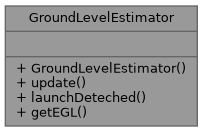
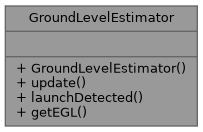
Deploying to gh-pages from @ CURocketEngineering/Avionics@33a848b708a5ed7cc51dd8aad7a456dd8ab78559 🚀

Changed region(s): [[0.532, 0.6667, 0.7389, 0.7879]]

diff --git a/GroundLevelEstimator_8cpp_source.html b/GroundLevelEstimator_8cpp_source.html
@@ -97,41 +97,45 @@ $(document).ready(function(){initNavTree('GroundLevelEstimator_8cpp_source.html'
 <div class="line"><a id="l00002" name="l00002"></a><span class="lineno">    2</span> </div>
 <div class="line"><a id="l00003" name="l00003"></a><span class="lineno">    3</span><span class="comment">// Constructor</span></div>
 <div class="line"><a id="l00004" name="l00004"></a><span class="lineno"><a class="line" href="classGroundLevelEstimator.html#a49c13cdd303b837f048ccd9a5b218129">    4</a></span><a class="code hl_function" href="classGroundLevelEstimator.html#a49c13cdd303b837f048ccd9a5b218129">GroundLevelEstimator::GroundLevelEstimator</a>()</div>
-<div class="line"><a id="l00005" name="l00005"></a><span class="lineno">    5</span>: launched(false), estimatedGroundLevel_m(0.0F), sampleCount(0)</div>
+<div class="line"><a id="l00005" name="l00005"></a><span class="lineno">    5</span>: launched(false), estimatedGroundLevel_m(0.0F), sampleCount(0), alpha(0.1F)</div>
 <div class="line"><a id="l00006" name="l00006"></a><span class="lineno">    6</span>{}</div>
 <div class="line"><a id="l00007" name="l00007"></a><span class="lineno">    7</span> </div>
 <div class="line"><a id="l00008" name="l00008"></a><span class="lineno">    8</span><span class="comment">// Update the ground level estimate or convert ASL to AGL - Altitude ABOVE ground level</span></div>
 <div class="line"><a id="l00009" name="l00009"></a><span class="lineno"><a class="line" href="classGroundLevelEstimator.html#ab30984cfe9c9e86b0d6d1df3911ed593">    9</a></span><span class="keywordtype">float</span> <a class="code hl_function" href="classGroundLevelEstimator.html#ab30984cfe9c9e86b0d6d1df3911ed593">GroundLevelEstimator::update</a>(<span class="keywordtype">float</span> currentASL_m) {</div>
-<div class="line"><a id="l00010" name="l00010"></a><span class="lineno">   10</span>    </div>
-<div class="line"><a id="l00011" name="l00011"></a><span class="lineno">   11</span>    <span class="comment">// Before launch: accumulate samples to estimate ground level</span></div>
-<div class="line"><a id="l00012" name="l00012"></a><span class="lineno">   12</span>    <span class="keywordflow">if</span> (!launched) {</div>
-<div class="line"><a id="l00013" name="l00013"></a><span class="lineno">   13</span>        <span class="comment">// Running average of ground level samples</span></div>
-<div class="line"><a id="l00014" name="l00014"></a><span class="lineno">   14</span>        estimatedGroundLevel_m = ((estimatedGroundLevel_m * sampleCount) + currentASL_m) / (sampleCount + 1);</div>
-<div class="line"><a id="l00015" name="l00015"></a><span class="lineno">   15</span>        sampleCount++;</div>
-<div class="line"><a id="l00016" name="l00016"></a><span class="lineno">   16</span>        </div>
-<div class="line"><a id="l00017" name="l00017"></a><span class="lineno">   17</span>        <span class="comment">// Still on ground, so AGL is 0</span></div>
-<div class="line"><a id="l00018" name="l00018"></a><span class="lineno">   18</span>        <span class="keywordflow">return</span> 0.0F;</div>
-<div class="line"><a id="l00019" name="l00019"></a><span class="lineno">   19</span>    }</div>
-<div class="line"><a id="l00020" name="l00020"></a><span class="lineno">   20</span>    </div>
-<div class="line"><a id="l00021" name="l00021"></a><span class="lineno">   21</span>    <span class="comment">// After launch: convert ASL to AGL</span></div>
-<div class="line"><a id="l00022" name="l00022"></a><span class="lineno">   22</span>    <span class="keywordflow">return</span> currentASL_m - estimatedGroundLevel_m;</div>
-<div class="line"><a id="l00023" name="l00023"></a><span class="lineno">   23</span>}</div>
-<div class="line"><a id="l00024" name="l00024"></a><span class="lineno">   24</span> </div>
-<div class="line"><a id="l00025" name="l00025"></a><span class="lineno">   25</span><span class="comment">// Signal that launch has been detected</span></div>
-<div class="line"><a id="l00026" name="l00026"></a><span class="lineno"><a class="line" href="classGroundLevelEstimator.html#acde5458a25b436c7ce3f8aadbeb88381">   26</a></span><span class="keywordtype">void</span> <a class="code hl_function" href="classGroundLevelEstimator.html#acde5458a25b436c7ce3f8aadbeb88381">GroundLevelEstimator::launchDeteched</a>() {</div>
-<div class="line"><a id="l00027" name="l00027"></a><span class="lineno">   27</span>    launched = <span class="keyword">true</span>;</div>
-<div class="line"><a id="l00028" name="l00028"></a><span class="lineno">   28</span>    <span class="comment">// Ground level estimate is now frozen at estimatedGroundLevel_m</span></div>
-<div class="line"><a id="l00029" name="l00029"></a><span class="lineno">   29</span>}</div>
-<div class="line"><a id="l00030" name="l00030"></a><span class="lineno">   30</span> </div>
-<div class="line"><a id="l00031" name="l00031"></a><span class="lineno">   31</span><span class="comment">// Get the estimated ground level</span></div>
-<div class="line"><a id="l00032" name="l00032"></a><span class="lineno"><a class="line" href="classGroundLevelEstimator.html#a7b289083cfec89b5af524ae7e6db3c17">   32</a></span><span class="keywordtype">float</span> <a class="code hl_function" href="classGroundLevelEstimator.html#a7b289083cfec89b5af524ae7e6db3c17">GroundLevelEstimator::getEGL</a>()<span class="keyword"> const </span>{</div>
-<div class="line"><a id="l00033" name="l00033"></a><span class="lineno">   33</span>    <span class="keywordflow">return</span> estimatedGroundLevel_m;</div>
-<div class="line"><a id="l00034" name="l00034"></a><span class="lineno">   34</span>}</div>
+<div class="line"><a id="l00010" name="l00010"></a><span class="lineno">   10</span>    <span class="comment">// Before launch: accumulate samples to estimate ground level</span></div>
+<div class="line"><a id="l00011" name="l00011"></a><span class="lineno">   11</span>    <span class="keywordflow">if</span> (!launched) {</div>
+<div class="line"><a id="l00012" name="l00012"></a><span class="lineno">   12</span>        <span class="keywordflow">if</span> (sampleCount == 0) {</div>
+<div class="line"><a id="l00013" name="l00013"></a><span class="lineno">   13</span>            <span class="comment">// Initialize with first sample</span></div>
+<div class="line"><a id="l00014" name="l00014"></a><span class="lineno">   14</span>            estimatedGroundLevel_m = currentASL_m;</div>
+<div class="line"><a id="l00015" name="l00015"></a><span class="lineno">   15</span>        } <span class="keywordflow">else</span> {</div>
+<div class="line"><a id="l00016" name="l00016"></a><span class="lineno">   16</span>            <span class="comment">// Exponential moving average: EMA = alpha * newValue + (1 - alpha) * oldEMA</span></div>
+<div class="line"><a id="l00017" name="l00017"></a><span class="lineno">   17</span>            estimatedGroundLevel_m = (alpha * currentASL_m) + ((1.0F - alpha) * estimatedGroundLevel_m);</div>
+<div class="line"><a id="l00018" name="l00018"></a><span class="lineno">   18</span>        }</div>
+<div class="line"><a id="l00019" name="l00019"></a><span class="lineno">   19</span>        sampleCount++;</div>
+<div class="line"><a id="l00020" name="l00020"></a><span class="lineno">   20</span>        </div>
+<div class="line"><a id="l00021" name="l00021"></a><span class="lineno">   21</span>        <span class="comment">// Still on ground, so AGL is 0</span></div>
+<div class="line"><a id="l00022" name="l00022"></a><span class="lineno">   22</span>        <span class="keywordflow">return</span> 0.0F;</div>
+<div class="line"><a id="l00023" name="l00023"></a><span class="lineno">   23</span>    }</div>
+<div class="line"><a id="l00024" name="l00024"></a><span class="lineno">   24</span>    </div>
+<div class="line"><a id="l00025" name="l00025"></a><span class="lineno">   25</span>    <span class="comment">// After launch: convert ASL to AGL</span></div>
+<div class="line"><a id="l00026" name="l00026"></a><span class="lineno">   26</span>    <span class="keywordflow">return</span> currentASL_m - estimatedGroundLevel_m;</div>
+<div class="line"><a id="l00027" name="l00027"></a><span class="lineno">   27</span>}</div>
+<div class="line"><a id="l00028" name="l00028"></a><span class="lineno">   28</span> </div>
+<div class="line"><a id="l00029" name="l00029"></a><span class="lineno">   29</span><span class="comment">// Signal that launch has been detected</span></div>
+<div class="line"><a id="l00030" name="l00030"></a><span class="lineno"><a class="line" href="classGroundLevelEstimator.html#a5993686a16bfa41f3e0fc793cf7b798c">   30</a></span><span class="keywordtype">void</span> <a class="code hl_function" href="classGroundLevelEstimator.html#a5993686a16bfa41f3e0fc793cf7b798c">GroundLevelEstimator::launchDetected</a>() {</div>
+<div class="line"><a id="l00031" name="l00031"></a><span class="lineno">   31</span>    launched = <span class="keyword">true</span>;</div>
+<div class="line"><a id="l00032" name="l00032"></a><span class="lineno">   32</span>    <span class="comment">// Ground level estimate is now frozen at estimatedGroundLevel_m</span></div>
+<div class="line"><a id="l00033" name="l00033"></a><span class="lineno">   33</span>}</div>
+<div class="line"><a id="l00034" name="l00034"></a><span class="lineno">   34</span> </div>
+<div class="line"><a id="l00035" name="l00035"></a><span class="lineno">   35</span><span class="comment">// Get the estimated ground level</span></div>
+<div class="line"><a id="l00036" name="l00036"></a><span class="lineno"><a class="line" href="classGroundLevelEstimator.html#a7b289083cfec89b5af524ae7e6db3c17">   36</a></span><span class="keywordtype">float</span> <a class="code hl_function" href="classGroundLevelEstimator.html#a7b289083cfec89b5af524ae7e6db3c17">GroundLevelEstimator::getEGL</a>()<span class="keyword"> const </span>{</div>
+<div class="line"><a id="l00037" name="l00037"></a><span class="lineno">   37</span>    <span class="keywordflow">return</span> estimatedGroundLevel_m;</div>
+<div class="line"><a id="l00038" name="l00038"></a><span class="lineno">   38</span>}</div>
 <div class="ttc" id="aGroundLevelEstimator_8h_html"><div class="ttname"><a href="GroundLevelEstimator_8h.html">GroundLevelEstimator.h</a></div></div>
 <div class="ttc" id="aclassGroundLevelEstimator_html_a49c13cdd303b837f048ccd9a5b218129"><div class="ttname"><a href="classGroundLevelEstimator.html#a49c13cdd303b837f048ccd9a5b218129">GroundLevelEstimator::GroundLevelEstimator</a></div><div class="ttdeci">GroundLevelEstimator()</div><div class="ttdoc">Constructs a GroundLevelEstimator.</div><div class="ttdef"><b>Definition:</b> <a href="GroundLevelEstimator_8cpp_source.html#l00004">GroundLevelEstimator.cpp:4</a></div></div>
-<div class="ttc" id="aclassGroundLevelEstimator_html_a7b289083cfec89b5af524ae7e6db3c17"><div class="ttname"><a href="classGroundLevelEstimator.html#a7b289083cfec89b5af524ae7e6db3c17">GroundLevelEstimator::getEGL</a></div><div class="ttdeci">float getEGL() const</div><div class="ttdoc">Gets the estimated ground level.</div><div class="ttdef"><b>Definition:</b> <a href="GroundLevelEstimator_8cpp_source.html#l00032">GroundLevelEstimator.cpp:32</a></div></div>
+<div class="ttc" id="aclassGroundLevelEstimator_html_a5993686a16bfa41f3e0fc793cf7b798c"><div class="ttname"><a href="classGroundLevelEstimator.html#a5993686a16bfa41f3e0fc793cf7b798c">GroundLevelEstimator::launchDetected</a></div><div class="ttdeci">void launchDetected()</div><div class="ttdoc">Signals that launch has been detected.</div><div class="ttdef"><b>Definition:</b> <a href="GroundLevelEstimator_8cpp_source.html#l00030">GroundLevelEstimator.cpp:30</a></div></div>
+<div class="ttc" id="aclassGroundLevelEstimator_html_a7b289083cfec89b5af524ae7e6db3c17"><div class="ttname"><a href="classGroundLevelEstimator.html#a7b289083cfec89b5af524ae7e6db3c17">GroundLevelEstimator::getEGL</a></div><div class="ttdeci">float getEGL() const</div><div class="ttdoc">Gets the estimated ground level.</div><div class="ttdef"><b>Definition:</b> <a href="GroundLevelEstimator_8cpp_source.html#l00036">GroundLevelEstimator.cpp:36</a></div></div>
 <div class="ttc" id="aclassGroundLevelEstimator_html_ab30984cfe9c9e86b0d6d1df3911ed593"><div class="ttname"><a href="classGroundLevelEstimator.html#ab30984cfe9c9e86b0d6d1df3911ed593">GroundLevelEstimator::update</a></div><div class="ttdeci">float update(float currentASL_m)</div><div class="ttdoc">Updates the ground level estimate or converts ASL to AGL.</div><div class="ttdef"><b>Definition:</b> <a href="GroundLevelEstimator_8cpp_source.html#l00009">GroundLevelEstimator.cpp:9</a></div></div>
-<div class="ttc" id="aclassGroundLevelEstimator_html_acde5458a25b436c7ce3f8aadbeb88381"><div class="ttname"><a href="classGroundLevelEstimator.html#acde5458a25b436c7ce3f8aadbeb88381">GroundLevelEstimator::launchDeteched</a></div><div class="ttdeci">void launchDeteched()</div><div class="ttdoc">Signals that launch has been detected.</div><div class="ttdef"><b>Definition:</b> <a href="GroundLevelEstimator_8cpp_source.html#l00026">GroundLevelEstimator.cpp:26</a></div></div>
 </div><!-- fragment --></div><!-- contents -->
 </div><!-- doc-content -->
 <!-- start footer part -->

diff --git a/search/all_9.js b/search/all_9.js
@@ -2,29 +2,28 @@ var searchData=
 [
   ['lastsenttimestamp_0',['lastSentTimestamp',['../structSendableSensorData.html#a70aed79ce7d278edd53b4bb838ed260f',1,'SendableSensorData']]],
   ['launch_5fstart_5faddress_5faddress_1',['LAUNCH_START_ADDRESS_ADDRESS',['../DataSaverSPI_8h.html#ac7f367c5e920ef5f2e942f5f8018e14c',1,'DataSaverSPI.h']]],
-  ['launchdeteched_2',['launchDeteched',['../classGroundLevelEstimator.html#acde5458a25b436c7ce3f8aadbeb88381',1,'GroundLevelEstimator']]],
-  ['launchdetected_3',['launchDetected',['../classIDataSaver.html#ab85dcc857f197475c14f9e50e9d34a97',1,'IDataSaver::launchDetected()'],['../classDataSaverSPI.html#aec6ba457bb1daac36ec1769001097631',1,'DataSaverSPI::launchDetected()']]],
-  ['launchdetector_4',['LaunchDetector',['../classLaunchDetector.html#a10e33e12876e820753cde55b85c6f6dc',1,'LaunchDetector::LaunchDetector()'],['../classLaunchDetector.html',1,'LaunchDetector']]],
-  ['launchdetector_2ecpp_5',['LaunchDetector.cpp',['../LaunchDetector_8cpp.html',1,'']]],
-  ['launchdetector_2eh_6',['LaunchDetector.h',['../LaunchDetector_8h.html',1,'']]],
-  ['launchdetectorstatus_7',['LaunchDetectorStatus',['../LaunchDetector_8h.html#a25d95163b8059ecb03e5f9f95f1f2080',1,'LaunchDetector.h']]],
-  ['lis2mdl_5frate_5f100_5fhz_8',['LIS2MDL_RATE_100_HZ',['../Serial__Sim_8h.html#a71ebe59eb085389213cce273f4f0e3fc',1,'Serial_Sim.h']]],
-  ['lis3mdl_5fcontinuousmode_9',['LIS3MDL_CONTINUOUSMODE',['../Serial__Sim_8h.html#ae763f82fd817483153c5268475554415',1,'Serial_Sim.h']]],
-  ['lis3mdl_5fdatarate_5f155_5fhz_10',['LIS3MDL_DATARATE_155_HZ',['../Serial__Sim_8h.html#a3b7a0befc8e6444cb3b11fc59efa180a',1,'Serial_Sim.h']]],
-  ['lis3mdl_5fmediummode_11',['LIS3MDL_MEDIUMMODE',['../Serial__Sim_8h.html#a5aa13eefdbbab4abb877f63f1d660149',1,'Serial_Sim.h']]],
-  ['lis3mdl_5frange_5f4_5fgauss_12',['LIS3MDL_RANGE_4_GAUSS',['../Serial__Sim_8h.html#aa65f4d3da98a51cb32780467f093f5bc',1,'Serial_Sim.h']]],
-  ['lp_5facl_5ftoo_5flow_13',['LP_ACL_TOO_LOW',['../LaunchDetector_8h.html#a25d95163b8059ecb03e5f9f95f1f2080a686daad6b191529dbdc7f02bf27f6572',1,'LaunchDetector.h']]],
-  ['lp_5falready_5flaunched_14',['LP_ALREADY_LAUNCHED',['../LaunchDetector_8h.html#a25d95163b8059ecb03e5f9f95f1f2080afbe67ada0f1b0a4edd304168f437a3ef',1,'LaunchDetector.h']]],
-  ['lp_5fdata_5ftoo_5ffast_15',['LP_DATA_TOO_FAST',['../LaunchDetector_8h.html#a25d95163b8059ecb03e5f9f95f1f2080a80bc20b88138de9371639ea71bf56585',1,'LaunchDetector.h']]],
-  ['lp_5fdefault_5ffail_16',['LP_DEFAULT_FAIL',['../LaunchDetector_8h.html#a25d95163b8059ecb03e5f9f95f1f2080a7affdc9e272a68c8732a39cff0422945',1,'LaunchDetector.h']]],
-  ['lp_5finitial_5fpopulation_17',['LP_INITIAL_POPULATION',['../LaunchDetector_8h.html#a25d95163b8059ecb03e5f9f95f1f2080a6b1e984da9587377f161469ab0303445',1,'LaunchDetector.h']]],
-  ['lp_5flaunch_5fdetected_18',['LP_LAUNCH_DETECTED',['../LaunchDetector_8h.html#a25d95163b8059ecb03e5f9f95f1f2080a4361e11eb8765b4c163edbfa0d4a6dff',1,'LaunchDetector.h']]],
-  ['lp_5fwindow_5fdata_5fstale_19',['LP_WINDOW_DATA_STALE',['../LaunchDetector_8h.html#a25d95163b8059ecb03e5f9f95f1f2080ac42669799e8c4b31090280073785da2d',1,'LaunchDetector.h']]],
-  ['lp_5fwindow_5fnot_5ffull_20',['LP_WINDOW_NOT_FULL',['../LaunchDetector_8h.html#a25d95163b8059ecb03e5f9f95f1f2080a622591f5c3e7f82e33db4f25e744f02a',1,'LaunchDetector.h']]],
-  ['lp_5fwindow_5ftime_5frange_5ftoo_5flarge_21',['LP_WINDOW_TIME_RANGE_TOO_LARGE',['../LaunchDetector_8h.html#a25d95163b8059ecb03e5f9f95f1f2080a91ab0d6da25f183f5bd31488cb9befbd',1,'LaunchDetector.h']]],
-  ['lp_5fwindow_5ftime_5frange_5ftoo_5fsmall_22',['LP_WINDOW_TIME_RANGE_TOO_SMALL',['../LaunchDetector_8h.html#a25d95163b8059ecb03e5f9f95f1f2080ad19671ce85a8d5c2b6c745ca1fa255b1',1,'LaunchDetector.h']]],
-  ['lp_5fyounger_5ftimestamp_23',['LP_YOUNGER_TIMESTAMP',['../LaunchDetector_8h.html#a25d95163b8059ecb03e5f9f95f1f2080aa063df1281826f139a90af3499487911',1,'LaunchDetector.h']]],
-  ['lsm6ds_5faccel_5frange_5f16_5fg_24',['LSM6DS_ACCEL_RANGE_16_G',['../Serial__Sim_8h.html#a050ff7cbc1883697a35f3361c51ddbe4',1,'Serial_Sim.h']]],
-  ['lsm6ds_5fgyro_5frange_5f2000_5fdps_25',['LSM6DS_GYRO_RANGE_2000_DPS',['../Serial__Sim_8h.html#a70adc0960c6c80b0f6fc81ea9aa99fa7',1,'Serial_Sim.h']]],
-  ['lsm6ds_5frate_5f104_5fhz_26',['LSM6DS_RATE_104_HZ',['../Serial__Sim_8h.html#ac0e79d8e724a3192144b706f098b7739',1,'Serial_Sim.h']]]
+  ['launchdetected_2',['launchDetected',['../classIDataSaver.html#ab85dcc857f197475c14f9e50e9d34a97',1,'IDataSaver::launchDetected()'],['../classDataSaverSPI.html#aec6ba457bb1daac36ec1769001097631',1,'DataSaverSPI::launchDetected()'],['../classGroundLevelEstimator.html#a5993686a16bfa41f3e0fc793cf7b798c',1,'GroundLevelEstimator::launchDetected()']]],
+  ['launchdetector_3',['LaunchDetector',['../classLaunchDetector.html#a10e33e12876e820753cde55b85c6f6dc',1,'LaunchDetector::LaunchDetector()'],['../classLaunchDetector.html',1,'LaunchDetector']]],
+  ['launchdetector_2ecpp_4',['LaunchDetector.cpp',['../LaunchDetector_8cpp.html',1,'']]],
+  ['launchdetector_2eh_5',['LaunchDetector.h',['../LaunchDetector_8h.html',1,'']]],
+  ['launchdetectorstatus_6',['LaunchDetectorStatus',['../LaunchDetector_8h.html#a25d95163b8059ecb03e5f9f95f1f2080',1,'LaunchDetector.h']]],
+  ['lis2mdl_5frate_5f100_5fhz_7',['LIS2MDL_RATE_100_HZ',['../Serial__Sim_8h.html#a71ebe59eb085389213cce273f4f0e3fc',1,'Serial_Sim.h']]],
+  ['lis3mdl_5fcontinuousmode_8',['LIS3MDL_CONTINUOUSMODE',['../Serial__Sim_8h.html#ae763f82fd817483153c5268475554415',1,'Serial_Sim.h']]],
+  ['lis3mdl_5fdatarate_5f155_5fhz_9',['LIS3MDL_DATARATE_155_HZ',['../Serial__Sim_8h.html#a3b7a0befc8e6444cb3b11fc59efa180a',1,'Serial_Sim.h']]],
+  ['lis3mdl_5fmediummode_10',['LIS3MDL_MEDIUMMODE',['../Serial__Sim_8h.html#a5aa13eefdbbab4abb877f63f1d660149',1,'Serial_Sim.h']]],
+  ['lis3mdl_5frange_5f4_5fgauss_11',['LIS3MDL_RANGE_4_GAUSS',['../Serial__Sim_8h.html#aa65f4d3da98a51cb32780467f093f5bc',1,'Serial_Sim.h']]],
+  ['lp_5facl_5ftoo_5flow_12',['LP_ACL_TOO_LOW',['../LaunchDetector_8h.html#a25d95163b8059ecb03e5f9f95f1f2080a686daad6b191529dbdc7f02bf27f6572',1,'LaunchDetector.h']]],
+  ['lp_5falready_5flaunched_13',['LP_ALREADY_LAUNCHED',['../LaunchDetector_8h.html#a25d95163b8059ecb03e5f9f95f1f2080afbe67ada0f1b0a4edd304168f437a3ef',1,'LaunchDetector.h']]],
+  ['lp_5fdata_5ftoo_5ffast_14',['LP_DATA_TOO_FAST',['../LaunchDetector_8h.html#a25d95163b8059ecb03e5f9f95f1f2080a80bc20b88138de9371639ea71bf56585',1,'LaunchDetector.h']]],
+  ['lp_5fdefault_5ffail_15',['LP_DEFAULT_FAIL',['../LaunchDetector_8h.html#a25d95163b8059ecb03e5f9f95f1f2080a7affdc9e272a68c8732a39cff0422945',1,'LaunchDetector.h']]],
+  ['lp_5finitial_5fpopulation_16',['LP_INITIAL_POPULATION',['../LaunchDetector_8h.html#a25d95163b8059ecb03e5f9f95f1f2080a6b1e984da9587377f161469ab0303445',1,'LaunchDetector.h']]],
+  ['lp_5flaunch_5fdetected_17',['LP_LAUNCH_DETECTED',['../LaunchDetector_8h.html#a25d95163b8059ecb03e5f9f95f1f2080a4361e11eb8765b4c163edbfa0d4a6dff',1,'LaunchDetector.h']]],
+  ['lp_5fwindow_5fdata_5fstale_18',['LP_WINDOW_DATA_STALE',['../LaunchDetector_8h.html#a25d95163b8059ecb03e5f9f95f1f2080ac42669799e8c4b31090280073785da2d',1,'LaunchDetector.h']]],
+  ['lp_5fwindow_5fnot_5ffull_19',['LP_WINDOW_NOT_FULL',['../LaunchDetector_8h.html#a25d95163b8059ecb03e5f9f95f1f2080a622591f5c3e7f82e33db4f25e744f02a',1,'LaunchDetector.h']]],
+  ['lp_5fwindow_5ftime_5frange_5ftoo_5flarge_20',['LP_WINDOW_TIME_RANGE_TOO_LARGE',['../LaunchDetector_8h.html#a25d95163b8059ecb03e5f9f95f1f2080a91ab0d6da25f183f5bd31488cb9befbd',1,'LaunchDetector.h']]],
+  ['lp_5fwindow_5ftime_5frange_5ftoo_5fsmall_21',['LP_WINDOW_TIME_RANGE_TOO_SMALL',['../LaunchDetector_8h.html#a25d95163b8059ecb03e5f9f95f1f2080ad19671ce85a8d5c2b6c745ca1fa255b1',1,'LaunchDetector.h']]],
+  ['lp_5fyounger_5ftimestamp_22',['LP_YOUNGER_TIMESTAMP',['../LaunchDetector_8h.html#a25d95163b8059ecb03e5f9f95f1f2080aa063df1281826f139a90af3499487911',1,'LaunchDetector.h']]],
+  ['lsm6ds_5faccel_5frange_5f16_5fg_23',['LSM6DS_ACCEL_RANGE_16_G',['../Serial__Sim_8h.html#a050ff7cbc1883697a35f3361c51ddbe4',1,'Serial_Sim.h']]],
+  ['lsm6ds_5fgyro_5frange_5f2000_5fdps_24',['LSM6DS_GYRO_RANGE_2000_DPS',['../Serial__Sim_8h.html#a70adc0960c6c80b0f6fc81ea9aa99fa7',1,'Serial_Sim.h']]],
+  ['lsm6ds_5frate_5f104_5fhz_25',['LSM6DS_RATE_104_HZ',['../Serial__Sim_8h.html#ac0e79d8e724a3192144b706f098b7739',1,'Serial_Sim.h']]]
 ];

diff --git a/GroundLevelEstimator_8h_source.html b/GroundLevelEstimator_8h_source.html
@@ -113,7 +113,7 @@ $(document).ready(function(){initNavTree('GroundLevelEstimator_8h_source.html','
 <div class="line"><a id="l00021" name="l00021"></a><span class="lineno">   21</span> </div>
 <div class="line"><a id="l00030" name="l00030"></a><span class="lineno">   30</span>        <span class="keywordtype">float</span> <a class="code hl_function" href="classGroundLevelEstimator.html#ab30984cfe9c9e86b0d6d1df3911ed593">update</a>(<span class="keywordtype">float</span> currentASL_m);</div>
 <div class="line"><a id="l00031" name="l00031"></a><span class="lineno">   31</span> </div>
-<div class="line"><a id="l00038" name="l00038"></a><span class="lineno">   38</span>        <span class="keywordtype">void</span> <a class="code hl_function" href="classGroundLevelEstimator.html#acde5458a25b436c7ce3f8aadbeb88381">launchDeteched</a>();</div>
+<div class="line"><a id="l00038" name="l00038"></a><span class="lineno">   38</span>        <span class="keywordtype">void</span> <a class="code hl_function" href="classGroundLevelEstimator.html#a5993686a16bfa41f3e0fc793cf7b798c">launchDetected</a>();</div>
 <div class="line"><a id="l00039" name="l00039"></a><span class="lineno">   39</span> </div>
 <div class="line"><a id="l00045" name="l00045"></a><span class="lineno">   45</span>        <span class="keywordtype">float</span> <a class="code hl_function" href="classGroundLevelEstimator.html#a7b289083cfec89b5af524ae7e6db3c17">getEGL</a>() <span class="keyword">const</span>;</div>
 <div class="line"><a id="l00046" name="l00046"></a><span class="lineno">   46</span> </div>
@@ -122,15 +122,16 @@ $(document).ready(function(){initNavTree('GroundLevelEstimator_8h_source.html','
 <div class="line"><a id="l00049" name="l00049"></a><span class="lineno">   49</span>        <span class="keywordtype">bool</span> launched = <span class="keyword">false</span>; <span class="comment">//Turned true if launch is detected</span></div>
 <div class="line"><a id="l00050" name="l00050"></a><span class="lineno">   50</span>        <span class="keywordtype">float</span> estimatedGroundLevel_m = 0.0F; <span class="comment">//EGL in meters</span></div>
 <div class="line"><a id="l00051" name="l00051"></a><span class="lineno">   51</span>        uint32_t sampleCount = 0; <span class="comment">//Number of samples used for ground level estimate</span></div>
-<div class="line"><a id="l00052" name="l00052"></a><span class="lineno">   52</span> </div>
-<div class="line"><a id="l00053" name="l00053"></a><span class="lineno">   53</span>};</div>
-<div class="line"><a id="l00054" name="l00054"></a><span class="lineno">   54</span> </div>
-<div class="line"><a id="l00055" name="l00055"></a><span class="lineno">   55</span><span class="preprocessor">#endif</span></div>
+<div class="line"><a id="l00052" name="l00052"></a><span class="lineno">   52</span>        <span class="keywordtype">float</span> alpha; <span class="comment">//Determines how much weight the most recent number added has on the current EGL</span></div>
+<div class="line"><a id="l00053" name="l00053"></a><span class="lineno">   53</span> </div>
+<div class="line"><a id="l00054" name="l00054"></a><span class="lineno">   54</span>};</div>
+<div class="line"><a id="l00055" name="l00055"></a><span class="lineno">   55</span> </div>
+<div class="line"><a id="l00056" name="l00056"></a><span class="lineno">   56</span><span class="preprocessor">#endif</span></div>
 <div class="ttc" id="aclassGroundLevelEstimator_html"><div class="ttname"><a href="classGroundLevelEstimator.html">GroundLevelEstimator</a></div><div class="ttdef"><b>Definition:</b> <a href="GroundLevelEstimator_8h_source.html#l00015">GroundLevelEstimator.h:15</a></div></div>
 <div class="ttc" id="aclassGroundLevelEstimator_html_a49c13cdd303b837f048ccd9a5b218129"><div class="ttname"><a href="classGroundLevelEstimator.html#a49c13cdd303b837f048ccd9a5b218129">GroundLevelEstimator::GroundLevelEstimator</a></div><div class="ttdeci">GroundLevelEstimator()</div><div class="ttdoc">Constructs a GroundLevelEstimator.</div><div class="ttdef"><b>Definition:</b> <a href="GroundLevelEstimator_8cpp_source.html#l00004">GroundLevelEstimator.cpp:4</a></div></div>
-<div class="ttc" id="aclassGroundLevelEstimator_html_a7b289083cfec89b5af524ae7e6db3c17"><div class="ttname"><a href="classGroundLevelEstimator.html#a7b289083cfec89b5af524ae7e6db3c17">GroundLevelEstimator::getEGL</a></div><div class="ttdeci">float getEGL() const</div><div class="ttdoc">Gets the estimated ground level.</div><div class="ttdef"><b>Definition:</b> <a href="GroundLevelEstimator_8cpp_source.html#l00032">GroundLevelEstimator.cpp:32</a></div></div>
+<div class="ttc" id="aclassGroundLevelEstimator_html_a5993686a16bfa41f3e0fc793cf7b798c"><div class="ttname"><a href="classGroundLevelEstimator.html#a5993686a16bfa41f3e0fc793cf7b798c">GroundLevelEstimator::launchDetected</a></div><div class="ttdeci">void launchDetected()</div><div class="ttdoc">Signals that launch has been detected.</div><div class="ttdef"><b>Definition:</b> <a href="GroundLevelEstimator_8cpp_source.html#l00030">GroundLevelEstimator.cpp:30</a></div></div>
+<div class="ttc" id="aclassGroundLevelEstimator_html_a7b289083cfec89b5af524ae7e6db3c17"><div class="ttname"><a href="classGroundLevelEstimator.html#a7b289083cfec89b5af524ae7e6db3c17">GroundLevelEstimator::getEGL</a></div><div class="ttdeci">float getEGL() const</div><div class="ttdoc">Gets the estimated ground level.</div><div class="ttdef"><b>Definition:</b> <a href="GroundLevelEstimator_8cpp_source.html#l00036">GroundLevelEstimator.cpp:36</a></div></div>
 <div class="ttc" id="aclassGroundLevelEstimator_html_ab30984cfe9c9e86b0d6d1df3911ed593"><div class="ttname"><a href="classGroundLevelEstimator.html#ab30984cfe9c9e86b0d6d1df3911ed593">GroundLevelEstimator::update</a></div><div class="ttdeci">float update(float currentASL_m)</div><div class="ttdoc">Updates the ground level estimate or converts ASL to AGL.</div><div class="ttdef"><b>Definition:</b> <a href="GroundLevelEstimator_8cpp_source.html#l00009">GroundLevelEstimator.cpp:9</a></div></div>
-<div class="ttc" id="aclassGroundLevelEstimator_html_acde5458a25b436c7ce3f8aadbeb88381"><div class="ttname"><a href="classGroundLevelEstimator.html#acde5458a25b436c7ce3f8aadbeb88381">GroundLevelEstimator::launchDeteched</a></div><div class="ttdeci">void launchDeteched()</div><div class="ttdoc">Signals that launch has been detected.</div><div class="ttdef"><b>Definition:</b> <a href="GroundLevelEstimator_8cpp_source.html#l00026">GroundLevelEstimator.cpp:26</a></div></div>
 </div><!-- fragment --></div><!-- contents -->
 </div><!-- doc-content -->
 <!-- start footer part -->

diff --git a/classGroundLevelEstimator.html b/classGroundLevelEstimator.html
@@ -115,9 +115,9 @@ Public Member Functions</h2></td></tr>
 <tr class="memitem:ab30984cfe9c9e86b0d6d1df3911ed593"><td class="memItemLeft" align="right" valign="top">float&#160;</td><td class="memItemRight" valign="bottom"><a class="el" href="classGroundLevelEstimator.html#ab30984cfe9c9e86b0d6d1df3911ed593">update</a> (float currentASL_m)</td></tr>
 <tr class="memdesc:ab30984cfe9c9e86b0d6d1df3911ed593"><td class="mdescLeft">&#160;</td><td class="mdescRight">Updates the ground level estimate or converts ASL to AGL.  <br /></td></tr>
 <tr class="separator:ab30984cfe9c9e86b0d6d1df3911ed593"><td class="memSeparator" colspan="2">&#160;</td></tr>
-<tr class="memitem:acde5458a25b436c7ce3f8aadbeb88381"><td class="memItemLeft" align="right" valign="top">void&#160;</td><td class="memItemRight" valign="bottom"><a class="el" href="classGroundLevelEstimator.html#acde5458a25b436c7ce3f8aadbeb88381">launchDeteched</a> ()</td></tr>
-<tr class="memdesc:acde5458a25b436c7ce3f8aadbeb88381"><td class="mdescLeft">&#160;</td><td class="mdescRight">Signals that launch has been detected.  <br /></td></tr>
-<tr class="separator:acde5458a25b436c7ce3f8aadbeb88381"><td class="memSeparator" colspan="2">&#160;</td></tr>
+<tr class="memitem:a5993686a16bfa41f3e0fc793cf7b798c"><td class="memItemLeft" align="right" valign="top">void&#160;</td><td class="memItemRight" valign="bottom"><a class="el" href="classGroundLevelEstimator.html#a5993686a16bfa41f3e0fc793cf7b798c">launchDetected</a> ()</td></tr>
+<tr class="memdesc:a5993686a16bfa41f3e0fc793cf7b798c"><td class="mdescLeft">&#160;</td><td class="mdescRight">Signals that launch has been detected.  <br /></td></tr>
+<tr class="separator:a5993686a16bfa41f3e0fc793cf7b798c"><td class="memSeparator" colspan="2">&#160;</td></tr>
 <tr class="memitem:a7b289083cfec89b5af524ae7e6db3c17"><td class="memItemLeft" align="right" valign="top">float&#160;</td><td class="memItemRight" valign="bottom"><a class="el" href="classGroundLevelEstimator.html#a7b289083cfec89b5af524ae7e6db3c17">getEGL</a> () const</td></tr>
 <tr class="memdesc:a7b289083cfec89b5af524ae7e6db3c17"><td class="mdescLeft">&#160;</td><td class="mdescRight">Gets the estimated ground level.  <br /></td></tr>
 <tr class="separator:a7b289083cfec89b5af524ae7e6db3c17"><td class="memSeparator" colspan="2">&#160;</td></tr>
@@ -166,18 +166,18 @@ Public Member Functions</h2></td></tr>
 <p>Gets the estimated ground level. </p>
 <dl class="section return"><dt>Returns</dt><dd>Altitude above sea level at the launch site in meters. </dd></dl>
 
-<p class="definition">Definition at line <a class="el" href="GroundLevelEstimator_8cpp_source.html#l00032">32</a> of file <a class="el" href="GroundLevelEstimator_8cpp_source.html">GroundLevelEstimator.cpp</a>.</p>
+<p class="definition">Definition at line <a class="el" href="GroundLevelEstimator_8cpp_source.html#l00036">36</a> of file <a class="el" href="GroundLevelEstimator_8cpp_source.html">GroundLevelEstimator.cpp</a>.</p>
 
 </div>
 </div>
-<a id="acde5458a25b436c7ce3f8aadbeb88381" name="acde5458a25b436c7ce3f8aadbeb88381"></a>
-<h2 class="memtitle"><span class="permalink"><a href="#acde5458a25b436c7ce3f8aadbeb88381">&#9670;&#160;</a></span>launchDeteched()</h2>
+<a id="a5993686a16bfa41f3e0fc793cf7b798c" name="a5993686a16bfa41f3e0fc793cf7b798c"></a>
+<h2 class="memtitle"><span class="permalink"><a href="#a5993686a16bfa41f3e0fc793cf7b798c">&#9670;&#160;</a></span>launchDetected()</h2>
 
 <div class="memitem">
 <div class="memproto">
       <table class="memname">
         <tr>
-          <td class="memname">void GroundLevelEstimator::launchDeteched </td>
+          <td class="memname">void GroundLevelEstimator::launchDetected </td>
           <td>(</td>
           <td class="paramname"></td><td>)</td>
           <td></td>
@@ -188,7 +188,7 @@ Public Member Functions</h2></td></tr>
 <p>Signals that launch has been detected. </p>
 <p>Stops recording ground level measurements and freezes the EGL. Should be called once when launch is confirmed. </p>
 
-<p class="definition">Definition at line <a class="el" href="GroundLevelEstimator_8cpp_source.html#l00026">26</a> of file <a class="el" href="GroundLevelEstimator_8cpp_source.html">GroundLevelEstimator.cpp</a>.</p>
+<p class="definition">Definition at line <a class="el" href="GroundLevelEstimator_8cpp_source.html#l00030">30</a> of file <a class="el" href="GroundLevelEstimator_8cpp_source.html">GroundLevelEstimator.cpp</a>.</p>
 
 </div>
 </div>

diff --git a/classGroundLevelEstimator-members.html b/classGroundLevelEstimator-members.html
@@ -98,7 +98,7 @@ $(document).ready(function(){initNavTree('classGroundLevelEstimator.html',''); i
 <table class="directory">
   <tr class="even"><td class="entry"><a class="el" href="classGroundLevelEstimator.html#a7b289083cfec89b5af524ae7e6db3c17">getEGL</a>() const</td><td class="entry"><a class="el" href="classGroundLevelEstimator.html">GroundLevelEstimator</a></td><td class="entry"></td></tr>
   <tr class="odd"><td class="entry"><a class="el" href="classGroundLevelEstimator.html#a49c13cdd303b837f048ccd9a5b218129">GroundLevelEstimator</a>()</td><td class="entry"><a class="el" href="classGroundLevelEstimator.html">GroundLevelEstimator</a></td><td class="entry"></td></tr>
-  <tr class="even"><td class="entry"><a class="el" href="classGroundLevelEstimator.html#acde5458a25b436c7ce3f8aadbeb88381">launchDeteched</a>()</td><td class="entry"><a class="el" href="classGroundLevelEstimator.html">GroundLevelEstimator</a></td><td class="entry"></td></tr>
+  <tr class="even"><td class="entry"><a class="el" href="classGroundLevelEstimator.html#a5993686a16bfa41f3e0fc793cf7b798c">launchDetected</a>()</td><td class="entry"><a class="el" href="classGroundLevelEstimator.html">GroundLevelEstimator</a></td><td class="entry"></td></tr>
   <tr class="odd"><td class="entry"><a class="el" href="classGroundLevelEstimator.html#ab30984cfe9c9e86b0d6d1df3911ed593">update</a>(float currentASL_m)</td><td class="entry"><a class="el" href="classGroundLevelEstimator.html">GroundLevelEstimator</a></td><td class="entry"></td></tr>
 </table></div><!-- contents -->
 </div><!-- doc-content -->

diff --git a/functions_l.html b/functions_l.html
@@ -94,8 +94,7 @@ $(document).ready(function(){initNavTree('functions_l.html',''); initResizable()
 
 <h3><a id="index_l" name="index_l"></a>- l -</h3><ul>
 <li>lastSentTimestamp&#160;:&#160;<a class="el" href="structSendableSensorData.html#a70aed79ce7d278edd53b4bb838ed260f">SendableSensorData</a></li>
-<li>launchDeteched()&#160;:&#160;<a class="el" href="classGroundLevelEstimator.html#acde5458a25b436c7ce3f8aadbeb88381">GroundLevelEstimator</a></li>
-<li>launchDetected()&#160;:&#160;<a class="el" href="classDataSaverSPI.html#aec6ba457bb1daac36ec1769001097631">DataSaverSPI</a>, <a class="el" href="classIDataSaver.html#ab85dcc857f197475c14f9e50e9d34a97">IDataSaver</a></li>
+<li>launchDetected()&#160;:&#160;<a class="el" href="classDataSaverSPI.html#aec6ba457bb1daac36ec1769001097631">DataSaverSPI</a>, <a class="el" href="classGroundLevelEstimator.html#a5993686a16bfa41f3e0fc793cf7b798c">GroundLevelEstimator</a>, <a class="el" href="classIDataSaver.html#ab85dcc857f197475c14f9e50e9d34a97">IDataSaver</a></li>
 <li>LaunchDetector()&#160;:&#160;<a class="el" href="classLaunchDetector.html#a10e33e12876e820753cde55b85c6f6dc">LaunchDetector</a></li>
 </ul>
 </div><!-- contents -->

diff --git a/functions_func_l.html b/functions_func_l.html
@@ -93,8 +93,7 @@ $(document).ready(function(){initNavTree('functions_func_l.html',''); initResiza
 &#160;
 
 <h3><a id="index_l" name="index_l"></a>- l -</h3><ul>
-<li>launchDeteched()&#160;:&#160;<a class="el" href="classGroundLevelEstimator.html#acde5458a25b436c7ce3f8aadbeb88381">GroundLevelEstimator</a></li>
-<li>launchDetected()&#160;:&#160;<a class="el" href="classDataSaverSPI.html#aec6ba457bb1daac36ec1769001097631">DataSaverSPI</a>, <a class="el" href="classIDataSaver.html#ab85dcc857f197475c14f9e50e9d34a97">IDataSaver</a></li>
+<li>launchDetected()&#160;:&#160;<a class="el" href="classDataSaverSPI.html#aec6ba457bb1daac36ec1769001097631">DataSaverSPI</a>, <a class="el" href="classGroundLevelEstimator.html#a5993686a16bfa41f3e0fc793cf7b798c">GroundLevelEstimator</a>, <a class="el" href="classIDataSaver.html#ab85dcc857f197475c14f9e50e9d34a97">IDataSaver</a></li>
 <li>LaunchDetector()&#160;:&#160;<a class="el" href="classLaunchDetector.html#a10e33e12876e820753cde55b85c6f6dc">LaunchDetector</a></li>
 </ul>
 </div><!-- contents -->

diff --git a/search/functions_8.js b/search/functions_8.js
@@ -1,6 +1,5 @@
 var searchData=
 [
-  ['launchdeteched_0',['launchDeteched',['../classGroundLevelEstimator.html#acde5458a25b436c7ce3f8aadbeb88381',1,'GroundLevelEstimator']]],
-  ['launchdetected_1',['launchDetected',['../classIDataSaver.html#ab85dcc857f197475c14f9e50e9d34a97',1,'IDataSaver::launchDetected()'],['../classDataSaverSPI.html#aec6ba457bb1daac36ec1769001097631',1,'DataSaverSPI::launchDetected()']]],
-  ['launchdetector_2',['LaunchDetector',['../classLaunchDetector.html#a10e33e12876e820753cde55b85c6f6dc',1,'LaunchDetector']]]
+  ['launchdetected_0',['launchDetected',['../classIDataSaver.html#ab85dcc857f197475c14f9e50e9d34a97',1,'IDataSaver::launchDetected()'],['../classDataSaverSPI.html#aec6ba457bb1daac36ec1769001097631',1,'DataSaverSPI::launchDetected()'],['../classGroundLevelEstimator.html#a5993686a16bfa41f3e0fc793cf7b798c',1,'GroundLevelEstimator::launchDetected()']]],
+  ['launchdetector_1',['LaunchDetector',['../classLaunchDetector.html#a10e33e12876e820753cde55b85c6f6dc',1,'LaunchDetector']]]
 ];

diff --git a/navtreeindex1.js b/navtreeindex1.js
@@ -115,9 +115,9 @@ var NAVTREEINDEX1 =
 "classDataSaverSPI.html#aec6ba457bb1daac36ec1769001097631":[3,0,18,15],
 "classGroundLevelEstimator.html":[3,0,20],
 "classGroundLevelEstimator.html#a49c13cdd303b837f048ccd9a5b218129":[3,0,20,0],
+"classGroundLevelEstimator.html#a5993686a16bfa41f3e0fc793cf7b798c":[3,0,20,2],
 "classGroundLevelEstimator.html#a7b289083cfec89b5af524ae7e6db3c17":[3,0,20,1],
 "classGroundLevelEstimator.html#ab30984cfe9c9e86b0d6d1df3911ed593":[3,0,20,3],
-"classGroundLevelEstimator.html#acde5458a25b436c7ce3f8aadbeb88381":[3,0,20,2],
 "classIDataSaver.html":[3,0,21],
 "classIDataSaver.html#a7402ab1e9a21b021867fd57fcbc40819":[3,0,21,3],
 "classIDataSaver.html#ab85dcc857f197475c14f9e50e9d34a97":[3,0,21,1],

diff --git a/classGroundLevelEstimator.js b/classGroundLevelEstimator.js
@@ -2,6 +2,6 @@ var classGroundLevelEstimator =
 [
     [ "GroundLevelEstimator", "classGroundLevelEstimator.html#a49c13cdd303b837f048ccd9a5b218129", null ],
     [ "getEGL", "classGroundLevelEstimator.html#a7b289083cfec89b5af524ae7e6db3c17", null ],
-    [ "launchDeteched", "classGroundLevelEstimator.html#acde5458a25b436c7ce3f8aadbeb88381", null ],
+    [ "launchDetected", "classGroundLevelEstimator.html#a5993686a16bfa41f3e0fc793cf7b798c", null ],
     [ "update", "classGroundLevelEstimator.html#ab30984cfe9c9e86b0d6d1df3911ed593", null ]
 ];
